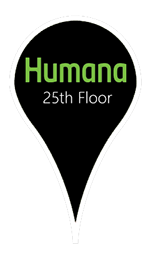
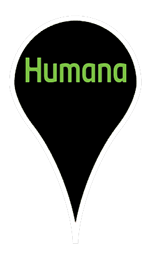
updated info

Changed region(s): [[0.2933, 0.3411, 0.7467, 0.4031]]

diff --git a/index.html b/index.html
@@ -50,7 +50,7 @@
 				<div class="column size-12">
 					<h2>What is a hackathon? What are the basic time, location, and purpose details of HackHI?</h2>
 					<p>
-						A hackathon is an intensive software development event. Although hackathons take place for times ranging from a few hours to an entire week, the coding portion of HackHI will take place for <em>24 hours</em>. The program will begin at 9:00 a.m. on Friday, July 18 on the 25th floor of the Humana Tower with registration, project idea brainstorming, and team formation. The hacking madness will then start at 10:00 a.m. and conclude promptly at 10:00 a.m. on Saturday, July 19. No - we won't let you go into overtime.
+						A hackathon is an intensive software development event. Although hackathons take place for times ranging from a few hours to an entire week, the coding portion of HackHI will take place for <em>24 hours</em>. The program will begin at 8:00 a.m. on Friday, July 10 in the Digital Experience Center with registration, project idea brainstorming, and team formation. The hacking madness will then start at 10:00 a.m. and conclude promptly at 10:00 a.m. on Saturday, July 11. No - we won't let you go into overtime.
 					</p>
 					<p>
 						Following the conclusion of the hackathon, there will be a presentation session where teams will present their (hopefully functional) <em>project demos</em> to all attendees. Projects will then be judged and prizes awarded. Please note that there will be a company-wide press release showcasing HackHI and all the presented projects.
@@ -83,8 +83,11 @@
 			<div class="row">
 				<div class="column size-4">
 					<h2>What should I bring?</h2>
+                    <p>
+                        Since it is being held at a Humana location please make sure that you have your Badge.
+                    </p>
 					<p>
-						We strongly recommend bringing a <strong>personal laptop</strong> (and charger!) with all the necessary accessories. If it is absolutely necessary for you to use a company laptop, please be aware of Humana laptop policies, as it will be impossible for you to download things you might need the day of the Hackathon (or at all). In addition, blankets, pillows, toothbrushes, snacks, and a change of comfy clothes are all suggested.
+						We strongly recommend bringing a <strong>personal laptop</strong> (and charger!) with power stripes, and necessary accessories. Humana will not be able to provide powerstrips, it is very important that you bring one. If it is absolutely necessary for you to use a company laptop, please be aware of Humana laptop policies, as it will be impossible for you to download things you might need the day of the Hackathon (or at all). In addition, blankets, pillows, toothbrushes, snacks, and a change of comfy clothes are all suggested.
 					</p>
 				</div>
 				<div class="column size-4">
@@ -98,17 +101,27 @@
 					<p>
 						You cannot bring a project you have started or any personal code to help you along the way. All project work must originate during the 24 hours of HackHI. Of course, anything that is open source is an encouraged starting point!
 					</p>
+                    <p>
+                        Pretty much don't bring anything you wouldn't bring to a normal work day.
+                    </p>
+<!--
 					<p>
 						Also, clearly you must go through Humana security to reach the location of HackHI, so anything that wouldn't make it past them certainly is not permitted.
 					</p>
+-->
 				</div>
 			</div>
 			<div class="row">
 				<div class="column size-4">
 					<h2>What can I work on during HackHI?</h2>
+                    <p>
+                        A Theme hasn't been decided yet but will soon. Check back to find out more.
+                    </p>
+<!--
 					<p>
 						The overall theme of HackHI relates back to Humana's overall value - <strong>wellness</strong>. The details of the project theme will be given on the morning of the Hackathon to prevent anxious programmers from getting a head-start.
 					</p>
+-->
 				</div>
 				<div class="column size-4">
 					<h2>Can I work on a past project?</h2>
@@ -127,13 +140,13 @@
 				<div class="column size-4">
 					<h2>Do I really get the whole day off?</h2>
 					<p>
-						<strong>Yes! Participants will be excused from working Friday.</strong> HackHI will start promptly at 9:00 a.m. and there is no requirement that you attend work beforehand. In fact, the HackHI team strongly encourages that you <em>sleep as much as possible before the event</em>!
+						<strong>Yes! Participants will be excused from working Friday.</strong> HackHI registration will start promptly at 8:00 a.m. and there is no requirement that you attend work beforehand. In fact, the HackHI team strongly encourages that you <em>sleep as much as possible before the event</em>!
 					</p>
 				</div>
 				<div class="column size-4">
 					<h2>Are we really staying overnight?</h2>
 					<p>
-						Yup! Interns will continue coding through the night to perfect their projects. If one simply can't stay awake for 24 hours, it is possible to take a short cat nap right there at the event or even return to the Galt House for a solid rest. <strong>Please keep in mind that if you decide to return to the Galt House or leave the Humana building for any reason you MUST return by passing through security. There will be <em>no exceptions</em>!</strong> In general, plan sleeping time wisely, so as not to let projects suffer.
+						Yup! Interns will continue coding through the night to perfect their projects. If one simply can't stay awake for 24 hours, it is possible to take a short cat nap right there at the event or even return to the Galt House for a solid rest. <!--<strong>Please keep in mind that if you decide to return to the Galt House or leave the D.E.C. for any reason you MUST return by passing through security. There will be <em>no exceptions</em>!</strong>--> In general, plan sleeping time wisely, so as not to let projects suffer.
 					</p>
 				</div>
 				<div class="column size-4">
@@ -156,7 +169,7 @@
 				<div class="column size-4">
 					<h2>I have a question that's not listed here. Who can I ask?</h2>
 					<p>
-						<a href="mailto:rtucker4@humana.com">Contact the HackHI team here!</a>
+						<a href="mailto:mmarze@humana.com">Contact the HackHI team here!</a>
 					</p>
 				</div>
 				<div class="column size-4">
@@ -176,6 +189,7 @@
 				We're still looking for current Humana associates to join HackHI and assist our interns. If you're interested in speaking or mentoring the interns during the event, please <a href="#RSVP">fill out our RSVP form</a>.
 			</p>
 		</div>
+<!--
 		<div class="section speakers">
 			<div id="card1" class="speakercard active">
 				<div class="sliver">
@@ -337,7 +351,9 @@
 				</div>
 			</div>
 		</div>
+-->
 	</div>
+<!--
 	<div id="Schedule" class="section content schedule">
 		<div class="container">
 			<h1>Schedule</h1>
@@ -345,6 +361,42 @@
 			<p>
 				Unfortunately HackHI is over this year. A lot of fun was had, and lots of cool things got built. If you wanna check some of the final projects that got submitted and watch the presentations, check out our <a href="projects/">projects page</a>.
 			</p>
+		</div>
+	</div>
+-->
+    <div id="Schedule" class="section content schedule">
+		<div class="container">
+			<h1>Schedule</h1>
+			<h2 class="special">when things are happenin'</h2>
+			<!-- <p>
+				Hmm...do I want text here? Something like, "Here's the schedule of events!" You know, short and sweet, bit of a space filler, and gets the point across.
+			</p> -->
+			<h2 style="margin-top: 5rem;">Friday (July 10)</h2>
+			<div class="row">
+				<span class="time">8:00 A.M.</span>
+				<span class="event">Arrive at The D.E.C. and begin registration</span>
+			</div>
+            <div class="row">
+				<span class="time">9:00 A.M.</span>
+				<span class="event">Setup and Team Building</span>
+			</div>
+			<div class="row">
+				<span class="time">10:00 A.M.</span>
+				<span class="event">Hackathon begins!</span>
+			</div>
+			<h2>Saturday (July 11)</h2>
+			<div class="row">
+				<span class="time">10:00 A.M.</span>
+				<span class="event">Hackathon ends! No more hacking!</span>
+			</div>
+			<div class="row">
+				<span class="time">10:00 A.M.</span>
+				<span class="event">Judging time</span>
+			</div>
+			<div class="row">
+				<span class="time">12:00 P.M.</span>
+				<span class="event">Go home :(</span>
+			</div>
 		</div>
 	</div>
 	<div id="map-canvas" class="section map">
@@ -382,7 +434,7 @@
 		<p>
 			Register and we will keep you updated.
 		</p>
-		<form action=processintern.php id="internForm" name="internForm" method="POST">
+		<form action=http://formspree.io/maxmarze@gmail.com id="internForm" name="internForm" method="POST">
 			Name: <input type="text" name="name" placeholder="First and Last"><br>
 			Email: <input type="text" name="email" placeholder="example@humana.com">
 			<p>
@@ -391,6 +443,7 @@
 				<input type="radio" name="yesorno" value="1">First Time!<br>
 			</p>
 			<input class="button" type="submit" value="Submit">
+            <input type="hidden" name="_next" value="index.html" />
 		</form>
 		<span class="x">X</span>
 	</div>
@@ -400,7 +453,7 @@
 			If you wish to volunteer, register and our lead coordinator will be in touch with you.
 			If you wish to attend, register and we will see you on July 18!
 		</p>
-		<form action=processemployee.php id="employeeForm" name="employeeForm" method="POST">
+		<form action=http://formspree.io/maxmarze@gmail.com id="employeeForm" name="employeeForm" method="POST">
 			Name: <input type="text" name="name" placeholder="First and Last"><br>
 			Email: <input type="text" name="email" placeholder="example@humana.com">
 			<p>
@@ -409,6 +462,7 @@
 				<input type="radio" name="yesorno" value="1">Attend<br>
 			</p>
 			<input class="button" type="submit" value="Submit">
+            <input type="hidden" name="_next" value="index.html" />
 		</form>
 		<span class="x">X</span>
 	</div>

diff --git a/scripts/site.js b/scripts/site.js
@@ -171,7 +171,7 @@ function initialize() {
         streetViewControl: false,
         scrollwheel: false,
         draggable: false,
-        center: new google.maps.LatLng(38.257404, -85.757145),
+        center: new google.maps.LatLng(38.256539, -85.757619),
         mapTypeControlOptions: {
             mapTypeIds: [google.maps.MapTypeId.ROADMAP, 'map_style']
         }
@@ -181,7 +181,8 @@ function initialize() {
 
     var image = 'content/images/humana-marker.png';
     var marker = new google.maps.Marker({
-        position: new google.maps.LatLng(38.2563842,-85.7574939),
+        position: new google.maps.LatLng(38.256539, -85.757619),
+//        position: new google.maps.LatLng(38.2563842,-85.7574939),
         map: map,
         icon: image
     });

diff --git a/scripts/min/site.min.js b/scripts/min/site.min.js
@@ -90,7 +90,7 @@ function initialize() {
         streetViewControl: false,
         scrollwheel: false,
         draggable: false,
-        center: new google.maps.LatLng(38.257404, -85.757145),
+        center: new google.maps.LatLng(38.256539, -85.757619),
         mapTypeControlOptions: {
             mapTypeIds: [google.maps.MapTypeId.ROADMAP, 'map_style']
         }
@@ -100,7 +100,7 @@ function initialize() {
 
     var image = 'content/images/humana-marker.png';
     var marker = new google.maps.Marker({
-        position: new google.maps.LatLng(38.2563842,-85.7574939),
+        position: new google.maps.LatLng(38.256539, -85.757619),
         map: map,
         icon: image
     });
